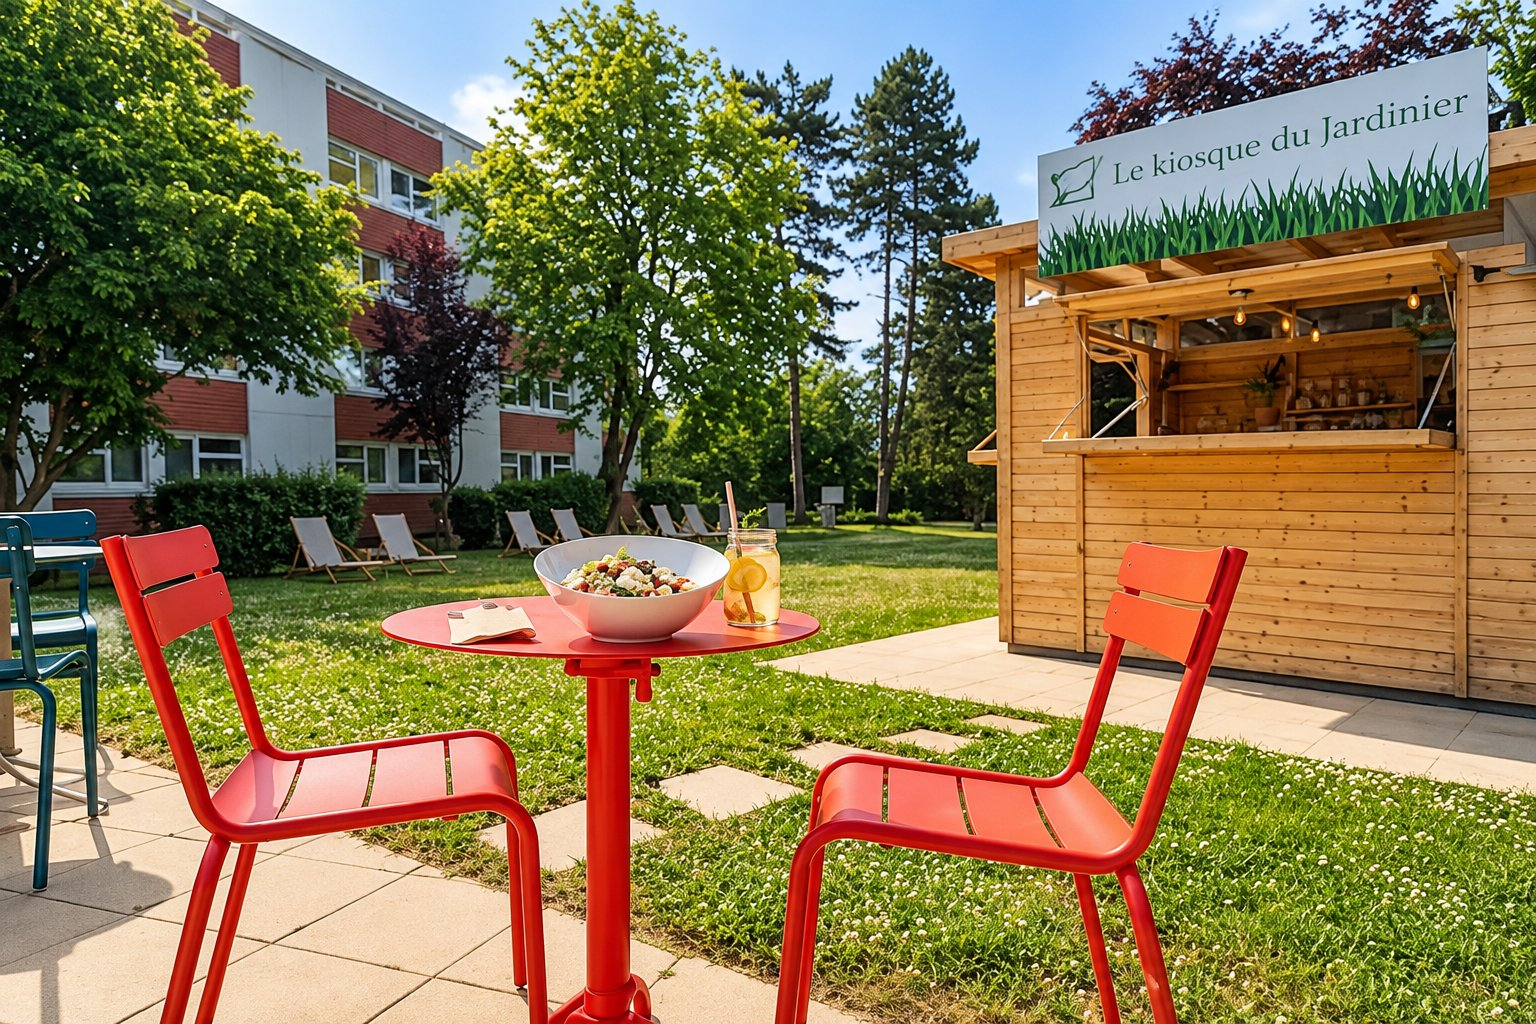
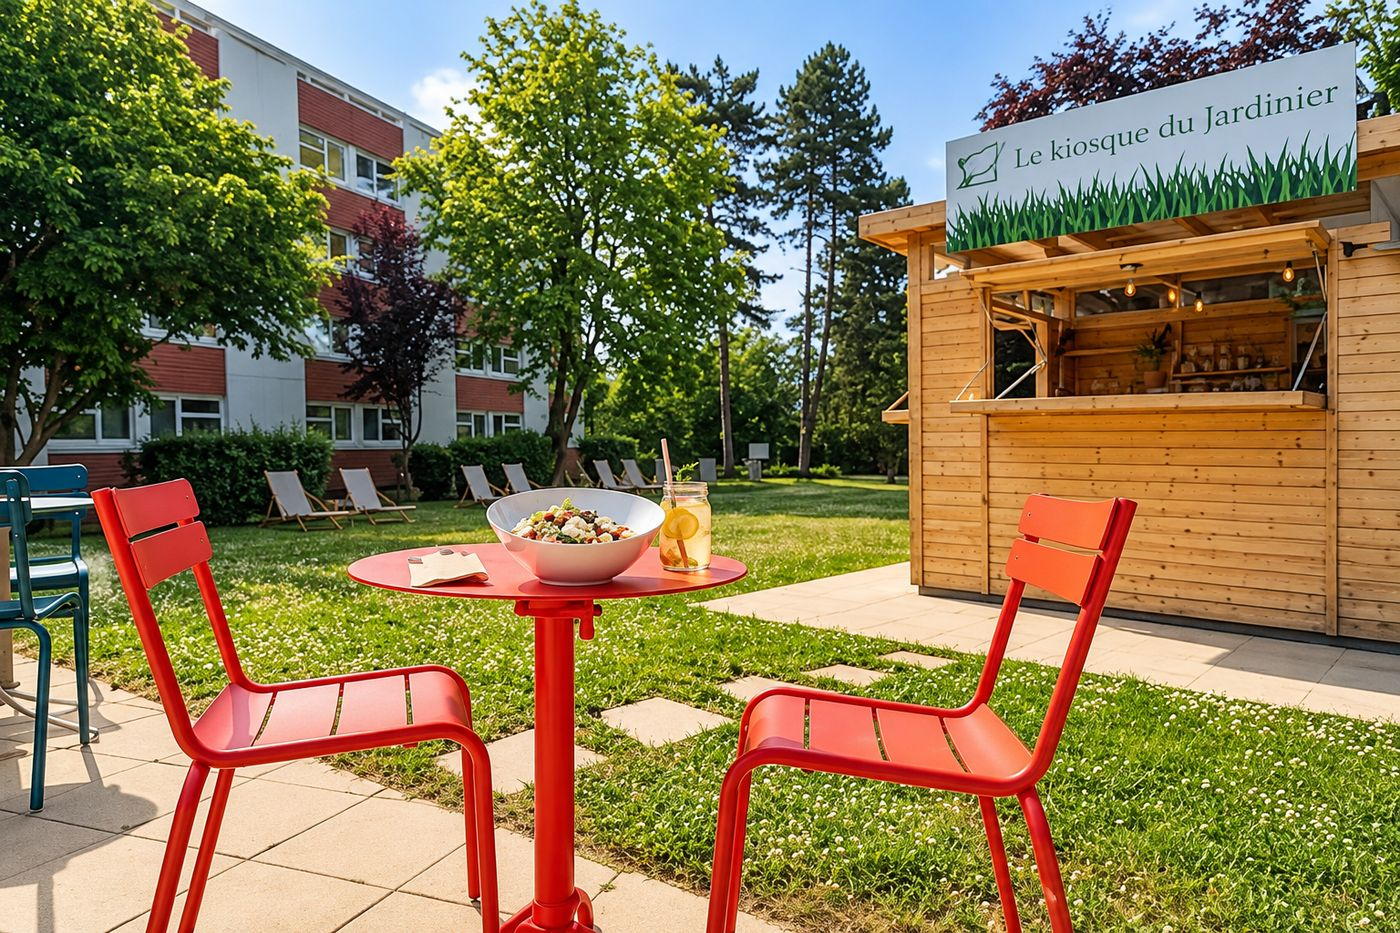
Recette complète : corrections formulaire, newsletter, images
Claude-Session: https://claude.ai/code/session_01Gqa11F1HueiJTkYNsevvMj

diff --git a/index.html b/index.html
@@ -139,7 +139,7 @@
       <p class="resa-card-t">Demande de réservation en ligne</p>
       <div class="resa-row3">
         <div class="field"><label for="r-date">Date</label><input id="r-date" name="Date" type="date" required></div>
-        <div class="field"><label for="r-time">Heure</label><select id="r-time" name="Heure" required><option value="">Choisir une date</option></select></div>
+        <div class="field"><label for="r-time">Heure</label><select id="r-time" name="Heure" required><option value="">Date d’abord</option></select></div>
         <div class="field"><label for="r-guests">Couverts</label>
           <div class="stepper"><button type="button" data-step="-1" aria-label="Une personne de moins">−</button><input id="r-guests" name="Personnes" type="number" min="1" max="60" value="2" inputmode="numeric" required><button type="button" data-step="1" aria-label="Une personne de plus">+</button></div>
         </div>
@@ -180,7 +180,7 @@
 <section class="news" id="newsletter">
   <div class="in">
     <h2>Newsletter</h2>
-    <p>Inscrivez-vous à notre lettre d'information pour recevoir des communications personnalisées et des offres marketing par courriel.</p>
+    <p>Recevez par email nos nouveautés de saison et nos offres.</p>
     <form data-kind="newsletter" novalidate>
       <input id="n-email" name="Email" type="email" placeholder="Votre adresse email" aria-label="Votre adresse email" autocomplete="email" required>
       <button class="btn btn-olive" type="submit">S'abonner</button>

diff --git a/assets/style.css b/assets/style.css
@@ -570,3 +570,12 @@ html.v-lock{overflow:hidden}
 @media (max-width:700px){.v-stage img{max-width:96vw;max-height:none}.v-stage{padding:60px 0 50px}.v-prev,.v-next{top:auto;bottom:6px;transform:none;width:44px;height:44px;font-size:1.8rem}.v-count{bottom:18px}}
 .v-count{pointer-events:none}
 @media (max-width:700px){.v-count{left:60px;right:60px}}
+
+/* Recette : lisibilité newsletter + case d'accord en erreur */
+.news::before{background:linear-gradient(rgba(17,18,20,.72),rgba(17,18,20,.62))}
+.news p{text-shadow:0 1px 8px rgba(0,0,0,.5)}
+.news .check{font-size:.85rem;align-items:center;gap:8px}
+.check input[type=checkbox]{width:18px;height:18px;flex:none;accent-color:#C9973A}
+.check input[aria-invalid=true]{outline:2px solid #E5533D;outline-offset:2px}
+.check:has(input[aria-invalid=true]){color:#E5533D}
+.news .check:has(input[aria-invalid=true]){color:#FFB4A6}

diff --git a/assets/site.js b/assets/site.js
@@ -162,7 +162,11 @@ const CONFIG = {
       e.preventDefault();
       const kind = form.dataset.kind;
       const bad = validate(form);
-      if (bad) { say(form, "Merci de compléter les champs en rouge.", true); bad.focus(); return; }
+      if (bad) {
+        const onlyBox = $$("[aria-invalid=true]", form).every(f => f.type === "checkbox");
+        say(form, onlyBox ? "Merci de cocher la case d'accord pour continuer." : "Merci de compléter les champs en rouge.", true);
+        bad.focus(); return;
+      }
       if (kind === "reservation" && guests && +guests.value > CONFIG.MAX_GUESTS_ONLINE) {
         say(form, `Pour un groupe de plus de ${CONFIG.MAX_GUESTS_ONLINE} personnes, appelez-nous au <strong>${CONFIG.PHONE}</strong>.`, true); return;
       }
